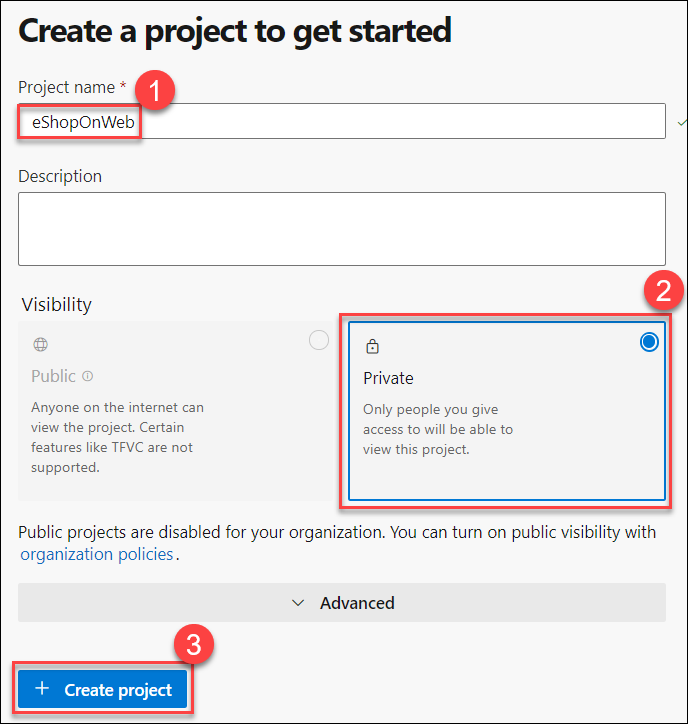
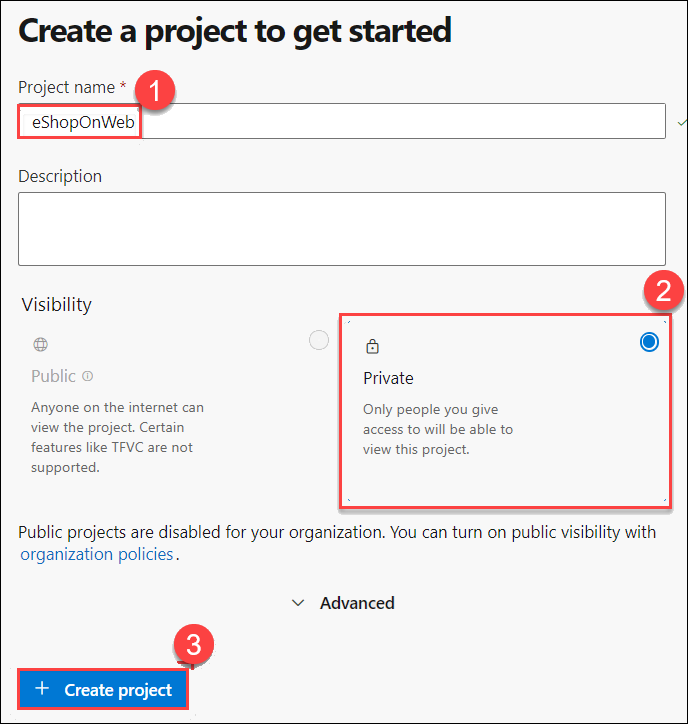
Updated

Changed region(s): [[0.4884, 0.4254, 0.9767, 0.6989], [0.0, 0.9116, 0.3052, 1.0], [0.0, 0.1215, 0.2137, 0.2127]]

diff --git a/Instructions/Labs/AZ400_M03_L03_Configuring_Agent_Pools_and_Understanding_Pipeline_Styles.md b/Instructions/Labs/AZ400_M03_L03_Configuring_Agent_Pools_and_Understanding_Pipeline_Styles.md
@@ -1,4 +1,4 @@
-# Lab 03: Configuring Agent Pools and Understanding Pipeline Styles
+# Lab 01: Configuring Agent Pools and Understanding Pipeline Styles
 
 ## Lab overview
 
@@ -60,20 +60,33 @@ In this exercise, you will set up the prerequisite for the lab, which consists o
 
 In this task, you will create an **eShopOnWeb** Azure DevOps project to be used by several labs.
 
-1. On your lab computer, in a browser window open your Azure DevOps organization. Click on **New Project**. Give your project the name **eShopOnWeb** and leave the other fields with defaults. Click on ***+ Create project**.
+   1. On your lab computer, in a browser window open your Azure DevOps organization. Click on **New Project**. Give your project the name  **eShopOnWeb (1)**, select visibility as **Private(2)**  and leave the other fields with defaults. Click on **Create project (3)**.
+
+      ![](images/az400-m3-L4-03.png)
 
 ## Task 2: Configuring Components for Visual Studio
 
 In this task you will import the eShopOnWeb Git repository that will be used by several labs.
 
-1. On your lab computer, in a browser window open your Azure DevOps organization and the previously created **eShopOnWeb** project. Click on **Repos>Files** , **Import a Repository**. Select **Import**. On the **Import a Git Repository** window, paste the following URL <https://github.com/MicrosoftLearning/eShopOnWeb.git> and click **Import**:
+1. On your lab computer, in a browser window open your Azure DevOps organization and the previously created eShopOnWeb project. Click on             **Repos (1)>Files (2) , Import a Repository**. Select **Import (3)**. On the **Import a Git Repository (4)** window, paste the following URL                     https://github.com/MicrosoftLearning/eShopOnWeb.git (5) and click **Import (6)**.
 
-1. The repository is organized the following way:
-    - **.ado** folder contains Azure DevOps YAML pipelines.
-    - **.devcontainer** folder container setup to develop using containers (either locally in VS Code or GitHub Codespaces).
-    - **infra** folder contains Bicep & ARM infrastructure as code templates used in some lab scenarios.
-    - **.github** folder contains YAML GitHub workflow definitions.
-    - **src** folder contains the .NET 8 website used in the lab scenarios.
+      ![](images/AZ-400-import.png)
+      
+      ![](images/AZ-400-git.png)
+
+   2. The repository is organized the following way:
+
+         o. **.ado** folder contains Azure DevOps YAML pipelines
+         
+         o **.devcontainer** folder container setup to develop using containers (either locally in VS Code or GitHub Codespaces)
+         
+         o **.azure** folder contains Bicep & ARM infrastructure as code templates used in some lab scenarios.
+         
+         o **.github** folder contains YAML GitHub workflow definitions.
+         
+         o. **src** folder contains the .NET 6 website used in the lab scenarios.
+         
+       ![](images/az400-m3-L4-06.png)
 
 #### Task 3: Set main branch as default branch
 
@@ -89,17 +102,26 @@ In this exercise, you will create an application lifecycle build pipeline, using
 
 In this task, you will create a template-based Azure DevOps YAML pipeline.
 
-1. From the web browser displaying the Azure DevOps portal with the **eShopOnWeb** project open, in the vertical navigational pane on the left side, click **Pipelines**.
+1. Go to **Pipelines (1)>Pipelines (2)**. Click on **Create Pipeline (3)** or **New Pipeline** button.
 
-1. Click the **Create Pipeline** button - if you don't have any other pipelines created yet or click **New pipeline** to create an additional new one.
+      ![](images/AZ-400-create.png)  
 
-1. On the **Where is your code?** pane, click **Azure Repos Git**. 
+   2. Select **Azure Repos Git (YAML)**
 
-1. On the **Select a repository** pane, click **eShopOnWeb**.
+      ![](images/AZ-400-code.png)
 
-1. On the **Configure your pipeline** pane, click **Existing Azure Pipelines YAML File**.
-1. On the **Select an existing YAML file**, select **main** for the Branch, and **/.ado/eshoponweb-ci-pr.yml** for the Path.
-1. Click **Continue**.
+   3. Select the **eShopOnWeb** repository.
+
+      ![](images/az400-m3-L4-09.png)
+
+   4. Select **Existing Azure Pipelines YAML File**
+
+      ![](images/az400-m3-L4-10.png)
+
+   5. Select the path **/.ado/eshoponweb-ci-pr.yml(1)** file then click on **Continue(2)**.
+
+      ![](images/AZ-400-yaml.1.png)
+ 
 1. On the **Review your pipeline YAML** pane, review the sample pipeline. This is a rather straight-forward .NET application Build pipeline, which does the following:
 
    - A single Stage: Build
@@ -110,6 +132,8 @@ In this task, you will create a template-based Azure DevOps YAML pipeline.
    - Dotnet Publish
 
 1. On the **Review your pipeline YAML** pane, click the down-facing caret symbol next to the **Run** button, click **Save**.
+
+    ![](images/az400-m3-L4-13.png)
 
     > Note: we are just creating the pipeline definition for now, without running it. You will first set up an Azure DevOps agent pool and run the pipeline in a later exercise. 
 
@@ -141,6 +165,8 @@ In this task, you will configure your lab Virtual Machine as an Azure DevOps sel
 
     > **Note**: Make sure you copy the token. You will not be able to retrieve it once you close this pane. 
 
+    ![Azure DevOps](images/token.png)
+
 1. On the **Success** pane, click **Close**.
 
 1. On the **Personal Access Token** pane of the Azure DevOps portal, click **Azure DevOps** symbol in the upper left corner and then click **Organization settings** label in the lower left corner.
@@ -159,8 +185,9 @@ In this task, you will configure your lab Virtual Machine as an Azure DevOps sel
 
 1. On the **Get the agent** pane, ensure that the **Windows** and **x64** tabs are selected, and click **Download** to download the zip archive containing the agent binaries to download it into the local **Downloads** folder within your user profile.
 
-   > **Note**: If you receive an error message at this point indicating that the current system settings prevent you from downloading the file, in the Browser window, in the upper right corner, click the gearwheel symbol designating the **Settings** menu header, in the dropdown menu, select **Internet Options**, in the **Internet Options** dialog box, click **Advanced**, on the **Advanced** tab, click **Reset**, in the **Reset Browser Settings** dialog box, click **Reset** again, click **Close**, and try the download again.
+   ![Azure DevOps](images/down.png)
 
+   > **Note**: If you receive an error message at this point indicating that the current system settings prevent you from downloading the file, in the Browser window, in the upper right corner, click the gearwheel symbol designating the **Settings** menu header, in the dropdown menu, select **Internet Options**, in the **Internet Options** dialog box, click **Advanced**, on the **Advanced** tab, click **Reset**, in the **Reset Browser Settings** dialog box, click **Reset** again, click **Close**, and try the download again.
 
 1.  Start Windows PowerShell as administrator and in the **Administrator: Windows PowerShell** console run the following lines to create the **C:\\agent** directory and extract the content of the downloaded archive into it.
 
@@ -198,7 +225,7 @@ In this task, you will configure your lab Virtual Machine as an Azure DevOps sel
 
     > **Note**: Verify that the agent is reporting the **Listening for Jobs** status.
 
-      ![Azure DevOps](images/AZ-400-3.png)
+      ![Azure DevOps](images/pow.png)
 
 1.  Switch to the browser window displaying the Azure DevOps portal and close the **Get the agent** pane.
 
@@ -220,8 +247,7 @@ In this task, you will configure your lab Virtual Machine as an Azure DevOps sel
     - agent.name -equals Agentname
     ```
     > **Note**: Replace Agentname with **labvm-<inject key="DeploymentID" enableCopy="false"/>**
-    
-1.  Change `Task: NugetToolInstaller@0` to  `Task: NugetToolInstaller@1` . 
+
  
     ![Azure DevOps](images/az-400-lab3-6.png)
     

diff --git a/Instructions/Labs/AZ400_M06_L12_Azure_Deployments_Using_Resource_Manager_Templates.md b/Instructions/Labs/AZ400_M06_L12_Azure_Deployments_Using_Resource_Manager_Templates.md
@@ -1,4 +1,4 @@
-# Lab 12: Manage infrastructure as code using Azure and DSC
+# Lab 1: Manage infrastructure as code using Azure and DSC
 
 # Deployments using Azure Bicep templates
 

diff --git a/Instructions/Labs/AZ400_M09_L16_Monitoring_Application_Performance_with_Application_Insights.md b/Instructions/Labs/AZ400_M09_L16_Monitoring_Application_Performance_with_Application_Insights.md
@@ -1,4 +1,4 @@
-# Lab 16: Monitoring Application Performance with Application Insights
+# Lab 1: Monitoring Application Performance with Application Insights
 
 ## Lab overview
 

diff --git a/Instructions/Labs/AZ400_M03_L06_Deploying_Docker_containers_to_Azure_App_Service_web_apps.md b/Instructions/Labs/AZ400_M03_L06_Deploying_Docker_containers_to_Azure_App_Service_web_apps.md
@@ -1,4 +1,4 @@
-# Lab 06: Deploying Docker containers to Azure App Service web apps
+# Lab 02: Deploying Docker containers to Azure App Service web apps
 
 ## Lab overview
 

diff --git a/Instructions/Labs/AZ400_M03_L04_Enabling_Continuous_Integration_with_Azure_Pipelines.md b/Instructions/Labs/AZ400_M03_L04_Enabling_Continuous_Integration_with_Azure_Pipelines.md
@@ -1,4 +1,4 @@
-# Lab 04: Enabling Continuous Integration with Azure Pipelines
+# Lab 02: Enabling Continuous Integration with Azure Pipelines
 
 ## Lab overview
 

diff --git a/Instructions/Labs/AZ400_M05_L11_Enable_Dynamic_Configuration_and_Feature_Flags.md b/Instructions/Labs/AZ400_M05_L11_Enable_Dynamic_Configuration_and_Feature_Flags.md
@@ -1,4 +1,4 @@
-# Lab 11: Enable Dynamic Configuration and Feature Flags
+# Lab 4: Enable Dynamic Configuration and Feature Flags
 
 ## Lab requirements
 

diff --git a/Instructions/Labs/AZ400_M09_L17_Sharing_Team_Knowledge_using_Azure_Project_Wikis.md b/Instructions/Labs/AZ400_M09_L17_Sharing_Team_Knowledge_using_Azure_Project_Wikis.md
@@ -1,4 +1,4 @@
-# Lab 17: Sharing Team Knowledge using Azure Project Wikis
+# Lab 1: Sharing Team Knowledge using Azure Project Wikis
 
 ## Lab overview
 

diff --git a/Instructions/Labs/AZ400_M05_L10_Integrating_Azure_Key_Vault_with_Azure_DevOps.md b/Instructions/Labs/AZ400_M05_L10_Integrating_Azure_Key_Vault_with_Azure_DevOps.md
@@ -1,4 +1,4 @@
-# Lab 10: Integrating Azure Key Vault with Azure DevOps
+# Lab 3: Integrating Azure Key Vault with Azure DevOps
 
 ## Lab overview
 

diff --git a/Instructions/Labs/AZ400_M02_L02_Version_Controlling_with_Git_in_Azure_Repos.md b/Instructions/Labs/AZ400_M02_L02_Version_Controlling_with_Git_in_Azure_Repos.md
@@ -1,4 +1,4 @@
-# Lab 02: Version Controlling with Git in Azure Repos
+# Lab 01: Version Controlling with Git in Azure Repos
 
 ## Lab overview
 

diff --git a/Instructions/Labs/AZ400_M04_L07_Controlling_Deployments_using_Release_Gates.md b/Instructions/Labs/AZ400_M04_L07_Controlling_Deployments_using_Release_Gates.md
@@ -1,4 +1,4 @@
-# Lab 07: Controlling Deployments using Release Gates
+# Lab 01: Controlling Deployments using Release Gates
 
 ## Lab overview
 

diff --git a/Instructions/Labs/AZ400_M05_L08_Configuring_Pipelines_as_Code_with_YAML.md b/Instructions/Labs/AZ400_M05_L08_Configuring_Pipelines_as_Code_with_YAML.md
@@ -1,4 +1,4 @@
-# Lab 08: Configuring Pipelines as Code with YAML
+# Lab 01: Configuring Pipelines as Code with YAML
 
 ## Lab overview
 

diff --git a/Instructions/Labs/AZ400_M05_L09_Setting_Up_and_Running_Functional_Tests.md b/Instructions/Labs/AZ400_M05_L09_Setting_Up_and_Running_Functional_Tests.md
@@ -1,4 +1,4 @@
-# Lab 09: Setting Up and Running Functional Tests
+# Lab 02: Setting Up and Running Functional Tests
 
 ## Lab overview
 
